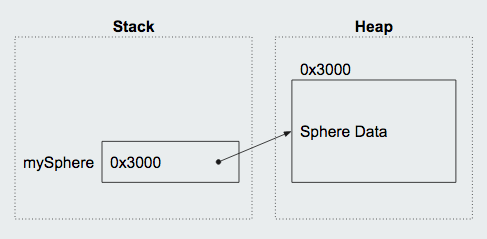
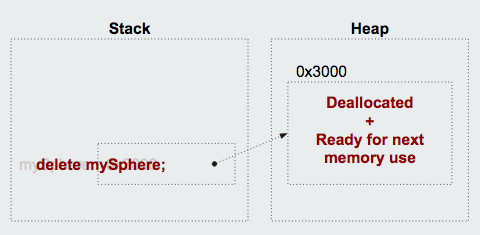
ooh

diff --git a/C++/C++_Deconstructor.md b/C++/C++_Deconstructor.md
@@ -35,6 +35,9 @@ The rule of thumb in C++ is that if a class defines any of the three functions (
 
 **Q:** Can you use the delete keyword in another function?
 
+![Constructing a Sphere](https://github.com/EverTokki/CPSC221_Notes/blob/master/images/sph1.png "Constructing a Sphere Object")
+**Constructing a Sphere Object**
+
 ```cpp
 makeSphere() {
 Sphere* s1 = new Sphere(4);
@@ -43,12 +46,20 @@ Sphere* s1 = new Sphere(4);
 return s1;
 // We are returning the value, or 0x3000 of s1.
 }
-// !!! Graphic on handout
 ``` 
+
+![Returning a Sphere](https://github.com/EverTokki/CPSC221_Notes/blob/master/images/sph2.png "Returning a Sphere Object")
+**A Sphere Object is returned to `*mySphere`, allowing it to point to the same object**
+
 
 ```cpp
 Sphere *mySphere = makeSphere();
+```
 
+![Delete mySphere](https://github.com/EverTokki/CPSC221_Notes/blob/master/images/sph3.png "Delete mySphere")
+**mySphere is deallocated and ready for next memory use.**
+
+```cpp
 delete mySphere;
 // This deletes the original Sphere data.
 ```
